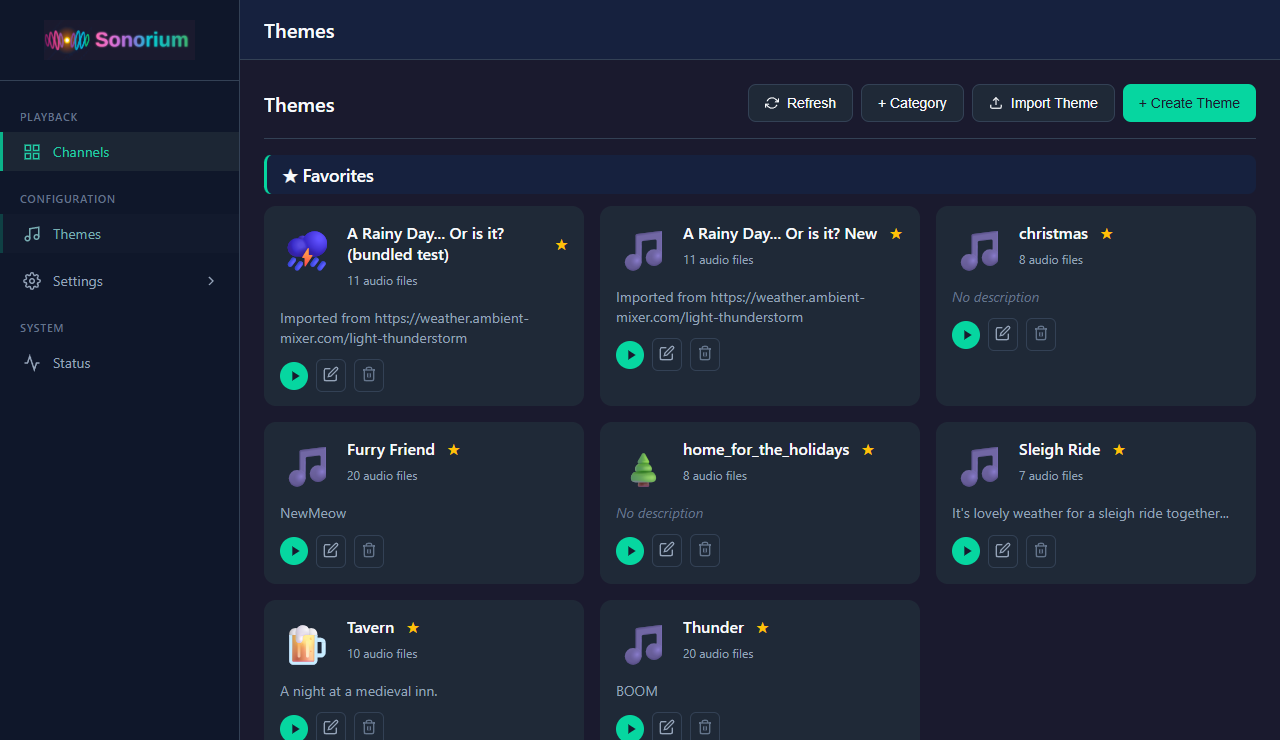
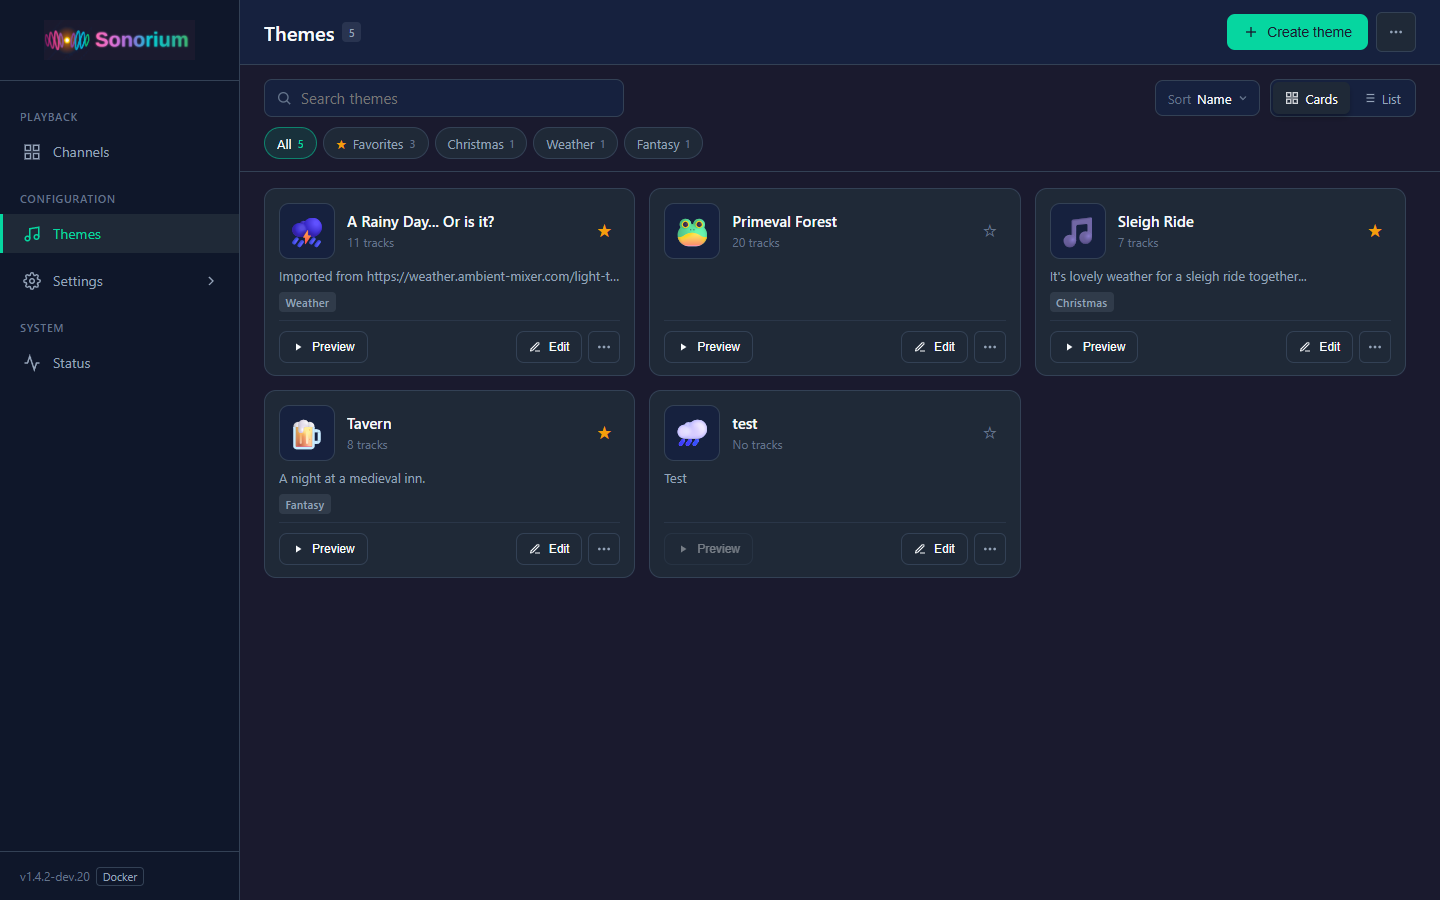
docs(addon): major release notice, Themes 2.0 what's new, help definitions, new screenshots

diff --git a/sonorium_addon/README.md b/sonorium_addon/README.md
@@ -2,21 +2,57 @@
 
 ![Sonorium](https://raw.githubusercontent.com/synssins/sonorium/main/logo.png)
 
+> ## ⭐ Major Release: Themes 2.0
+>
+> This is a major update. Themes can now hold **groups**, every channel can play its **own preset**, the **Theme Editor** and **Themes** page are rebuilt, and the playback modes have **new names**.
+>
+> Your themes are converted automatically the first time this version starts. Each theme's old settings file is kept next to it as `metadata.json.pre-presets.bak`.
+
 **Multi-Zone Ambient Soundscape Mixer for Home Assistant**
 
 [![Add Repository to Home Assistant](https://my.home-assistant.io/badges/supervisor_add_addon_repository.svg)](https://my.home-assistant.io/redirect/supervisor_add_addon_repository/?repository_url=https%3A%2F%2Fgithub.com%2Fsynssins%2Fsonorium)
 
 Sonorium lets you create immersive ambient audio environments throughout your home. Stream richly layered soundscapes—from distant thunder and rainfall to forest ambiance and ocean waves—to any combination of media players in your Home Assistant setup.
 
-## What's New in v1.4.0
+## What's New: Themes 2.0
 
-- **New channel editor.** Search themes, and pick speakers by floor, room or one at a time; ticking a floor or room selects everything in it.
-- **Settings → Speakers.** Rename speakers, set their room and a volume offset, and play a short test sound. Only speakers switched on here appear in channels, and **Hide offline** tidies the list.
-- **Settings → Logs.** See, search, copy and download recent log messages from Sonorium's web UI, without opening the add-on's Log tab. If Sonorium fails to start, its web UI shows the logs instead.
-- **Speaker screens.** Nest Hub and other Google Cast displays show the Sonorium logo while playing.
-- **Presets follow the theme.** Changing a channel's theme switches to that theme's default preset.
-- **Smaller fixes.** Denon/Marantz receivers are recognised, settings pages stay readable on wide screens, and the browser tab shows Sonorium's icon.
-- **Also new: a Docker version** for running Sonorium without the add-on system. See the [main README](https://github.com/synssins/sonorium#docker).
+- **Groups.** A folder inside a theme is a group: its tracks take turns, one at a time, never overlapping, with a random gap between them.
+- **A preset per channel.** Two channels can play the same theme with different presets.
+- **New Theme Editor.** Name, categories and description at the top; every track in one aligned table with its mode, volume, how often and mute; groups as sections you can collapse; upload, drag tracks between groups, and presets at the bottom. Changes are heard live, **Preview mix** plays the theme on the device you're editing from, and the **?** button explains it all.
+- **New Themes page.** Search, category chips, sort, and cards or a list. Each theme appears once, with its categories, a preview and a badge for the channel playing it.
+- **New mode names.** Continuous is now **Background**, Sparse is **Intermittent**, Presence is **Ebb & Flow**. Your saved settings keep working.
+- **Steadier sound.** The mix keeps an even level as tracks come and go, without clipping.
+- **Fixes.** A memory leak while playing is fixed, and tracks in a group can no longer overlap after a stall.
+
+### How a theme plays
+
+These are the same words as the **?** help in the Theme Editor.
+
+A theme is a set of tracks (sound files) mixed together. Each track has a **mode**, a **volume** and a **how often**.
+
+**Modes**
+
+- **Background:** plays all the time, looping smoothly. Rain, wind, a fire.
+- **Intermittent:** plays once, then goes quiet before playing again. *How often* sets the wait. Bird calls, a thunder crack, a door.
+- **Ebb & Flow:** fades in, plays a while, fades out, then stays quiet before coming back. *How often* sets how much of the time it's heard. Distant traffic, a passing crowd.
+- **Auto:** picks for you. Under 15 seconds plays Intermittent, longer plays Ebb & Flow. At 100% *how often*, either plays as Background.
+
+**Groups**
+
+- **Take turns:** a group is a folder of tracks where only one plays at a time, never overlapping. Use it for sounds that shouldn't pile up, like thunder cracks or songs from one musician.
+- **Gap:** after a track finishes, the group waits a random time in this range (minutes) before the next one starts. Different groups don't wait for each other.
+- **Intermittent only:** on its turn, a track plays its whole file once, then hands over. Background and Ebb & Flow are for the ambience outside groups.
+- **Volume, how often, mute:** the group's settings scale every track in it. A track's own *how often* sets how keen it is to take the next turn.
+- **Moving tracks:** drag a track onto a group, or use its ⋯ menu.
+- **Deleting a group:** keeps its files; they move back into the theme.
+
+**Saving**
+
+- **Live:** changes are heard on speakers playing this theme, and on this device with Preview mix.
+- **Cancel:** Reverts unsaved changes.
+- **Save Preset:** Saves loaded preset
+- **Save Theme:** Saves theme with all changes (presets, name, etc) Required after saving a preset.
+- **New:** makes a new preset from the current mix.
 
 Full history: [CHANGELOG.md](CHANGELOG.md).
 
@@ -66,9 +102,19 @@ Search themes, then pick speakers by floor, room or one at a time.
 ![Edit Channel](https://raw.githubusercontent.com/synssins/sonorium/main/screenshots/Channel_Editor.png)
 
 ### Themes
-Your theme library, with favorites and categories.
+Search, filter by category, and switch between cards and a list.
 
 ![Themes](https://raw.githubusercontent.com/synssins/sonorium/main/screenshots/Themes.png)
+
+### Edit Theme
+Tracks in one table, with groups, presets and a live preview.
+
+![Edit Theme](https://raw.githubusercontent.com/synssins/sonorium/main/screenshots/Theme_Editor.png)
+
+### Theme Editor help
+The **?** button explains modes, groups and saving.
+
+![Theme Editor help](https://raw.githubusercontent.com/synssins/sonorium/main/screenshots/Theme_Editor_Help.png)
 
 ### Settings → Speakers
 Switch speakers on or off, set their room and volume offset, and play a test sound.
